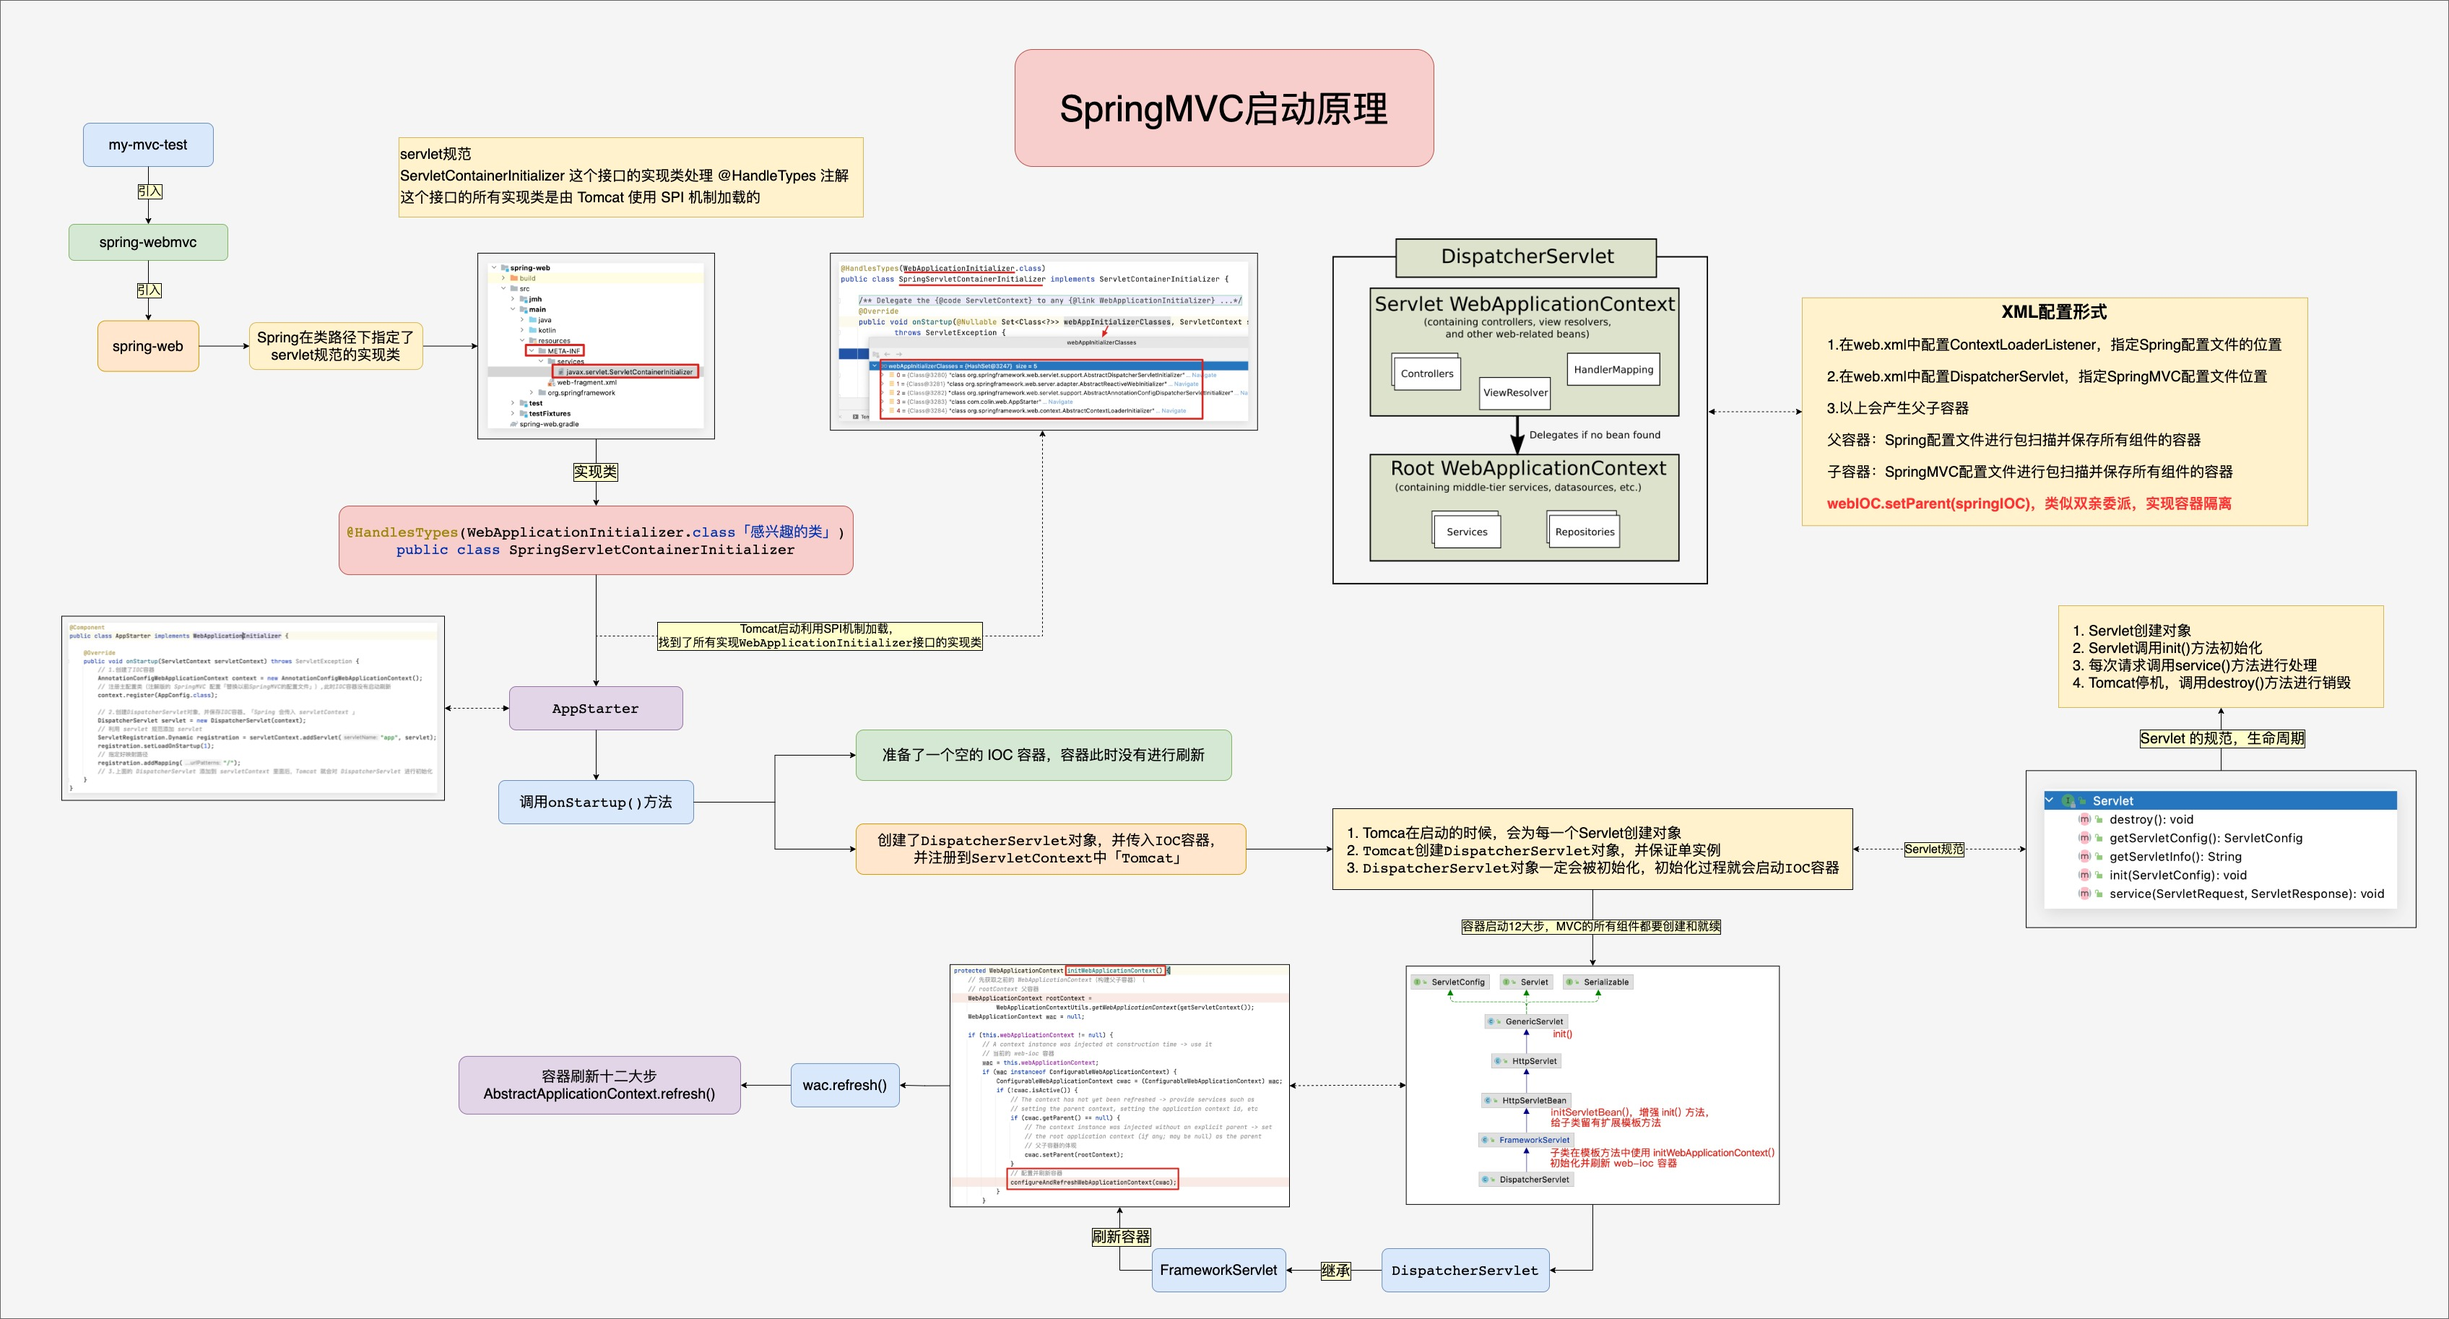
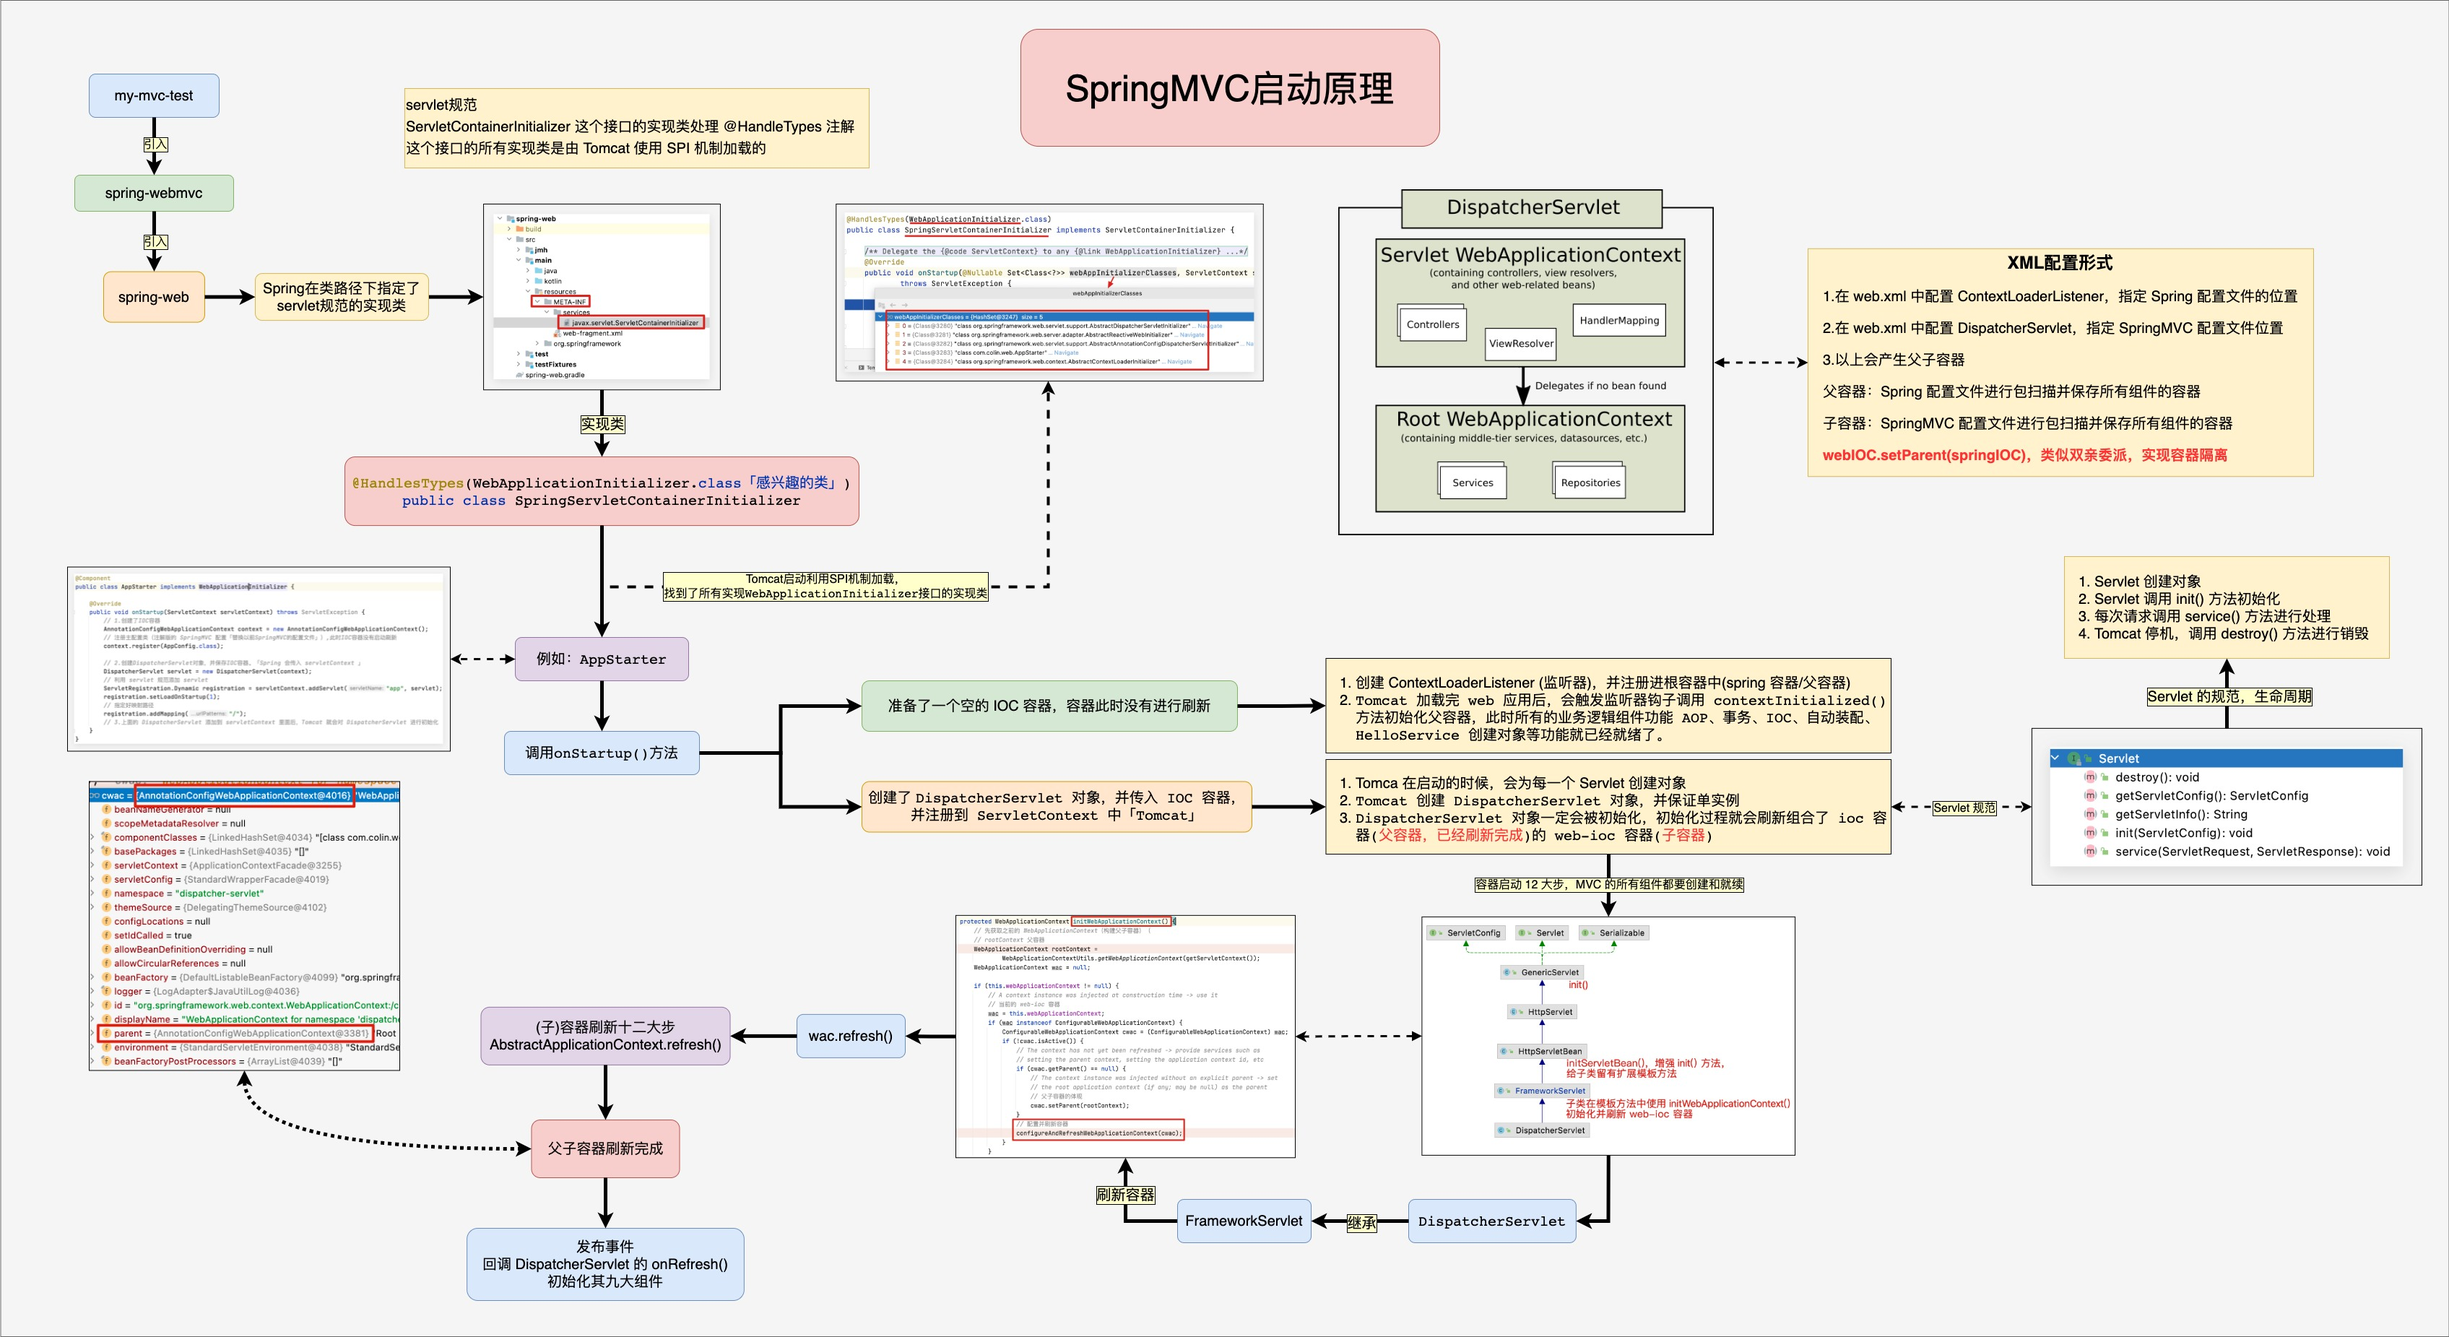
update

Changed region(s): [[0.031, 0.0, 0.9909, 0.9989]]

diff --git a/spring-webmvc/src/main/java/org/springframework/web/servlet/support/AbstractDispatcherServletInitializer.java b/spring-webmvc/src/main/java/org/springframework/web/servlet/support/AbstractDispatcherServletInitializer.java
@@ -60,11 +60,20 @@ public abstract class AbstractDispatcherServletInitializer extends AbstractConte
 
 	@Override
 	public void onStartup(ServletContext servletContext) throws ServletException {
-		// 创建 ContextLoaderListener（监听器），将其注册进根容器中「spring 容器/父容器」。
-		// Tomcat 加载完 web 应用后，会触发监听器钩子调用 contextInitialized() 方法初始化根容器。「所有的业务逻辑组件功能AOP，事务，IOC，自动装配，HelloService创建对像……」
+
+		/**
+		 * 创建 ContextLoaderListener（监听器），将其注册进根容器中（spring 容器/父容器）。
+		 * Tomcat 加载完 web 应用后，会触发监听器钩子调用 contextInitialized() 方法初始化根容器。
+		 * 所有的业务逻辑组件功能 AOP，事务，IOC，自动装配，HelloService 创建对像……
+		 */
 		super.onStartup(servletContext);
-		//「根据 web-ioc 容器/子容器」注册 DispatcherServlet。
-		// Tomcat 启动完以后会调用 DispatcherServlet 的初始化 init() 方法进行初始化，web-ioc.setParent(rootAppContext)形成父子容器，子容器刷新，此时Controller才开始创建对象，并自动装配Service（当前容器中没有，要去父容器中找）
+
+		/**
+		 * (根据 web-ioc 容器/子容器)注册 DispatcherServlet。
+		 * Tomcat 启动完以后会调用 DispatcherServlet 的初始化 init() 方法进行初始化，
+		 * web-ioc.setParent(rootAppContext) 形成父子容器，子容器刷新，
+		 * 此时 Controller 才开始创建对象，并自动装配 Service（当前容器中没有，要去父容器中找）
+		 */
 		registerDispatcherServlet(servletContext);
 	}
 
@@ -82,10 +91,12 @@ public abstract class AbstractDispatcherServletInitializer extends AbstractConte
 	protected void registerDispatcherServlet(ServletContext servletContext) {
 		String servletName = getServletName();
 		Assert.hasLength(servletName, "getServletName() must not return null or empty");
+
 		// 创建 web-ioc 容器
 		WebApplicationContext servletAppContext = createServletApplicationContext();
 		Assert.notNull(servletAppContext, "createServletApplicationContext() must not return null");
-		// 创建 DispatcherServlet
+
+		// 创建 DispatcherServlet，并组合了 web-ioc 容器
 		FrameworkServlet dispatcherServlet = createDispatcherServlet(servletAppContext);
 		Assert.notNull(dispatcherServlet, "createDispatcherServlet(WebApplicationContext) must not return null");
 		dispatcherServlet.setContextInitializers(getServletApplicationContextInitializers());
@@ -107,6 +118,7 @@ public abstract class AbstractDispatcherServletInitializer extends AbstractConte
 				registerServletFilter(servletContext, filter);
 			}
 		}
+
 		// 可以使用模板方法继续定制
 		customizeRegistration(registration);
 	}

diff --git a/colin-mvc-test/src/main/java/com/colin/web/AppStarter.java b/colin-mvc-test/src/main/java/com/colin/web/AppStarter.java
@@ -12,7 +12,7 @@ import javax.servlet.ServletRegistration;
  * @author colin
  * @create 2021-04-26 15:37
  *
- * 只要写了这个类（要实现WebApplicationInitializer），就相当于配置了 springmvc 的 DispatcherServlet。
+ * 只要写了这个类（要实现 WebApplicationInitializer），就相当于配置了 springmvc 的 DispatcherServlet。
  * 1. Tomcat一启动，就会加载这个类「Tomcat 利用 SPI 机制，加载了所有实现了 WebApplicationInitializer 接口的实现类」
  * 		1.创建了容器，指定了配置类，指定了包扫描（所有的 ioc，aop 等 spring 的功能就已经就绪）
  * 		2.注册一个 servlet-->DispatcherServlet
@@ -34,12 +34,12 @@ public class AppStarter /*implements WebApplicationInitializer*/ {
 	public void onStartup(ServletContext servletContext) throws ServletException {
 		// 1.创建了IOC容器
 		AnnotationConfigWebApplicationContext context = new AnnotationConfigWebApplicationContext();
-		// 注册主配置类（注解版的 SpringMVC 配置「替换以前SpringMVC的配置文件」）,此时IOC容器没有启动刷新
+		// 注册主配置类（注解版的 SpringMVC 配置「替换以前 SpringMVC 的配置文件」）,此时 IOC 容器没有启动刷新
 		context.register(MySpringConfig.class);
 
 		// 以上截止，IOC 容器没有启动刷新
 
-		// 2.创建DispatcherServlet对象，并保存IOC容器。「Spring 会传入 servletContext→{Tomcat} 」
+		// 2.创建 DispatcherServlet 对象，并保存 IOC 容器。「Spring 会传入 servletContext→{Tomcat} 」
 		DispatcherServlet servlet = new DispatcherServlet(context);
 		// 利用 servlet 规范添加 servlet
 		ServletRegistration.Dynamic registration = servletContext.addServlet("app", servlet);

diff --git a/spring-webmvc/src/main/java/org/springframework/web/servlet/DispatcherServlet.java b/spring-webmvc/src/main/java/org/springframework/web/servlet/DispatcherServlet.java
@@ -496,15 +496,24 @@ public class DispatcherServlet extends FrameworkServlet {
 	 * 从容器中获取该组件，如果容器中有，则取出，如果容器中没有，则使用默认值，「文件上传为null」。<p>May be overridden in subclasses in order to initialize further strategy objects.
 	 */
 	protected void initStrategies(ApplicationContext context) {
-		initMultipartResolver(context);// 文件上传解析器初始化
-		initLocaleResolver(context);// 国际化解析器初始化
-		initThemeResolver(context);// 模板解析器初始化
-		initHandlerMappings(context);// 处理器映射器初始化(内部保存了映射以及其对应的处理器类和方法)
-		initHandlerAdapters(context);// 处理器适配器初始化
-		initHandlerExceptionResolvers(context);// 处理器异常解析器初始化
-		initRequestToViewNameTranslator(context);// 视图名翻译器初始化
-		initViewResolvers(context);// 视图解析器初始化
-		initFlashMapManager(context);// 闪存管理器初始化
+		// 文件上传解析器初始化
+		initMultipartResolver(context);
+		// 国际化解析器初始化
+		initLocaleResolver(context);
+		// 模板解析器初始化
+		initThemeResolver(context);
+		// 处理器映射器初始化(内部保存了映射以及其对应的处理器类和方法)
+		initHandlerMappings(context);
+		// 处理器适配器初始化
+		initHandlerAdapters(context);
+		// 处理器异常解析器初始化
+		initHandlerExceptionResolvers(context);
+		// 视图名翻译器初始化
+		initRequestToViewNameTranslator(context);
+		// 视图解析器初始化
+		initViewResolvers(context);
+		// 闪存管理器初始化
+		initFlashMapManager(context);
 	}
 
 	/**

diff --git a/spring-webmvc/src/main/java/org/springframework/web/servlet/FrameworkServlet.java b/spring-webmvc/src/main/java/org/springframework/web/servlet/FrameworkServlet.java
@@ -529,7 +529,7 @@ public abstract class FrameworkServlet extends HttpServletBean implements Applic
 		long startTime = System.currentTimeMillis();
 
 		try {
-			// 初始化并刷新web-ioc容器
+			// 初始化并刷新 web-ioc 容器
 			this.webApplicationContext = initWebApplicationContext();
 			initFrameworkServlet();
 		}
@@ -559,17 +559,20 @@ public abstract class FrameworkServlet extends HttpServletBean implements Applic
 	 * @see #FrameworkServlet(WebApplicationContext)
 	 * @see #setContextClass
 	 * @see #setContextConfigLocation
+	 *
+	 * DispatcherServlet 对象初始化过程就会启动 IOC 容器
 	 */
 	protected WebApplicationContext initWebApplicationContext() {
 		// 先获取之前的 WebApplicationContext（构建父子容器）（
 		// rootContext 父容器
 		WebApplicationContext rootContext =
 				WebApplicationContextUtils.getWebApplicationContext(getServletContext());
+		// 定义 web-ioc 容器(子容器)
 		WebApplicationContext wac = null;
 
 		if (this.webApplicationContext != null) {
 			// A context instance was injected at construction time -> use it
-			// 当前的 web-ioc 容器
+			// 当前的 web-ioc 容器(子容器)
 			wac = this.webApplicationContext;
 			if (wac instanceof ConfigurableWebApplicationContext) {
 				ConfigurableWebApplicationContext cwac = (ConfigurableWebApplicationContext) wac;
@@ -582,7 +585,7 @@ public abstract class FrameworkServlet extends HttpServletBean implements Applic
 						// 父子容器的体现
 						cwac.setParent(rootContext);
 					}
-					// 配置并刷新容器
+					// 配置并刷新 web-ioc 容器(子容器)
 					configureAndRefreshWebApplicationContext(cwac);
 				}
 			}

diff --git a/spring-web/src/main/java/org/springframework/web/context/ContextLoader.java b/spring-web/src/main/java/org/springframework/web/context/ContextLoader.java
@@ -279,6 +279,7 @@ public class ContextLoader {
 				this.context = createWebApplicationContext(servletContext);
 			}
 			if (this.context instanceof ConfigurableWebApplicationContext) {
+				// IOC 容器(父容器)转换类型
 				ConfigurableWebApplicationContext cwac = (ConfigurableWebApplicationContext) this.context;
 				if (!cwac.isActive()) {
 					// The context has not yet been refreshed -> provide services such as
@@ -286,11 +287,11 @@ public class ContextLoader {
 					if (cwac.getParent() == null) {
 						// The context instance was injected without an explicit parent ->
 						// determine parent for root web application context, if any.
-						// 获取根容器，并设置为父容器
 						ApplicationContext parent = loadParentContext(servletContext);
 						cwac.setParent(parent);
 					}
-					// 开始刷新容器
+
+					// 开始刷新 IOC 容器(父容器)
 					configureAndRefreshWebApplicationContext(cwac, servletContext);
 				}
 			}
@@ -400,7 +401,7 @@ public class ContextLoader {
 		}
 
 		customizeContext(sc, wac);
-		// MVC 容器刷新十二大步骤
+		// IOC 容器(父容器)刷新十二大步骤
 		wac.refresh();
 	}
 

diff --git a/spring-web/src/main/java/org/springframework/web/SpringServletContainerInitializer.java b/spring-web/src/main/java/org/springframework/web/SpringServletContainerInitializer.java
@@ -110,7 +110,7 @@ import org.springframework.util.ReflectionUtils;
  * @see #onStartup(Set, ServletContext)
  * @see WebApplicationInitializer
  *
- * Servlet规范，ServletContainerInitializer 接口的实现类负责处理 @HandlesTypes 注解
+ * Servlet 规范，ServletContainerInitializer 接口的实现类负责处理 @HandlesTypes 注解
  * ServletContainerInitializer 接口的所有实现类是由 Tomcat 使用 SPI 机制加载的。
  */
 @HandlesTypes(WebApplicationInitializer.class)
@@ -172,6 +172,7 @@ public class SpringServletContainerInitializer implements ServletContainerInitia
 			servletContext.log("No Spring WebApplicationInitializer types detected on classpath");
 			return;
 		}
+
 		// 下面会遍历所有的满足要求（非接口、非抽象）的 WebApplicationInitializer 的实现类，并调用他们的 onStartup 方法
 		servletContext.log(initializers.size() + " Spring WebApplicationInitializers detected on classpath");
 		AnnotationAwareOrderComparator.sort(initializers);

diff --git a/spring-web/src/main/java/org/springframework/web/context/ContextLoaderListener.java b/spring-web/src/main/java/org/springframework/web/context/ContextLoaderListener.java
@@ -98,11 +98,15 @@ public class ContextLoaderListener extends ContextLoader implements ServletConte
 
 
 	/**
-	 * Tomcat加载完Web应用后，触发监听器钩子，调用此方法，初始化根容器。Initialize the root web application context.
+	 * Tomcat 加载完 Web 应用后，触发监听器钩子，调用此方法，初始化根(父)容器。Initialize the root web application context.
 	 */
 	@Override
 	public void contextInitialized(ServletContextEvent event) {
-		// 初始化 IOC 容器。「所有的业务逻辑组件功能AOP，事务，IOC，自动装配，HelloService创建对像……」
+		/**
+		 * 初始化 IOC 容器(父容器)。
+		 * 所有的业务逻辑组件功能 AOP，事务，IOC，自动装配，HelloService 创建对像……
+		 * 此时 web-ioc 容器尚未被初始化刷新，待 DispatcherServlet 初始化时刷新，web-ioc 容器刷新时才会创建 HelloController
+		 */
 		initWebApplicationContext(event.getServletContext());
 	}
 

diff --git a/spring-web/src/main/java/org/springframework/web/context/AbstractContextLoaderInitializer.java b/spring-web/src/main/java/org/springframework/web/context/AbstractContextLoaderInitializer.java
@@ -57,7 +57,8 @@ public abstract class AbstractContextLoaderInitializer implements WebApplication
 	 * @param servletContext the servlet context to register the listener against
 	 */
 	protected void registerContextLoaderListener(ServletContext servletContext) {
-		// 创建一个根容器（依据根配置RootConfig创建一个根容器，并把根配置类注册进容器）
+
+		// 创建一个根容器（依据根配置 RootConfig 创建一个根容器，并把根配置类注册进容器）
 		WebApplicationContext rootAppContext = createRootApplicationContext();
 		if (rootAppContext != null) {
 			// 利用根容器创建监听器

diff --git a/spring-webmvc/src/main/java/org/springframework/web/servlet/support/AbstractAnnotationConfigDispatcherServletInitializer.java b/spring-webmvc/src/main/java/org/springframework/web/servlet/support/AbstractAnnotationConfigDispatcherServletInitializer.java
@@ -75,9 +75,11 @@ public abstract class AbstractAnnotationConfigDispatcherServletInitializer
 	 */
 	@Override
 	protected WebApplicationContext createServletApplicationContext() {
+
 		// 创建 web-ioc 容器
 		AnnotationConfigWebApplicationContext context = new AnnotationConfigWebApplicationContext();
-		// 获取 Web 应用的配置
+
+		// 获取 Web 应用的配置，并注册进 web-ioc 容器中
 		Class<?>[] configClasses = getServletConfigClasses();
 		if (!ObjectUtils.isEmpty(configClasses)) {
 			context.register(configClasses);

diff --git a/colin-mvc-test/src/main/java/com/colin/web/exception/MyExceptionHandler.java b/colin-mvc-test/src/main/java/com/colin/web/exception/MyExceptionHandler.java
@@ -19,6 +19,6 @@ public class MyExceptionHandler {
 	@ResponseBody
 	@ExceptionHandler(value = {ArithmeticException.class})
 	public String handleZeroException(Exception exception){
-		return "ArithmeticException";
+		return "算数异常";
 	}
 }
